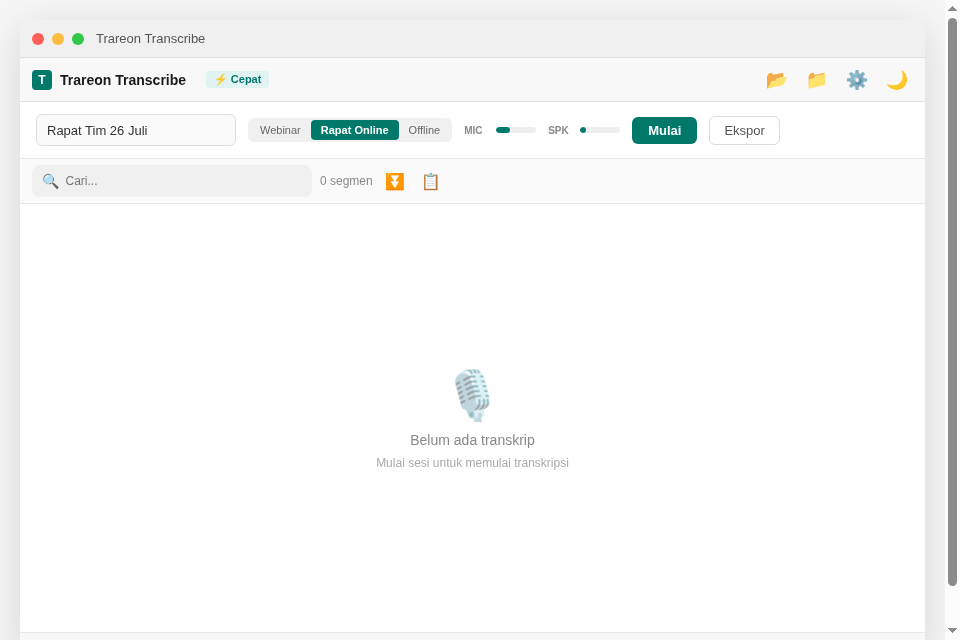
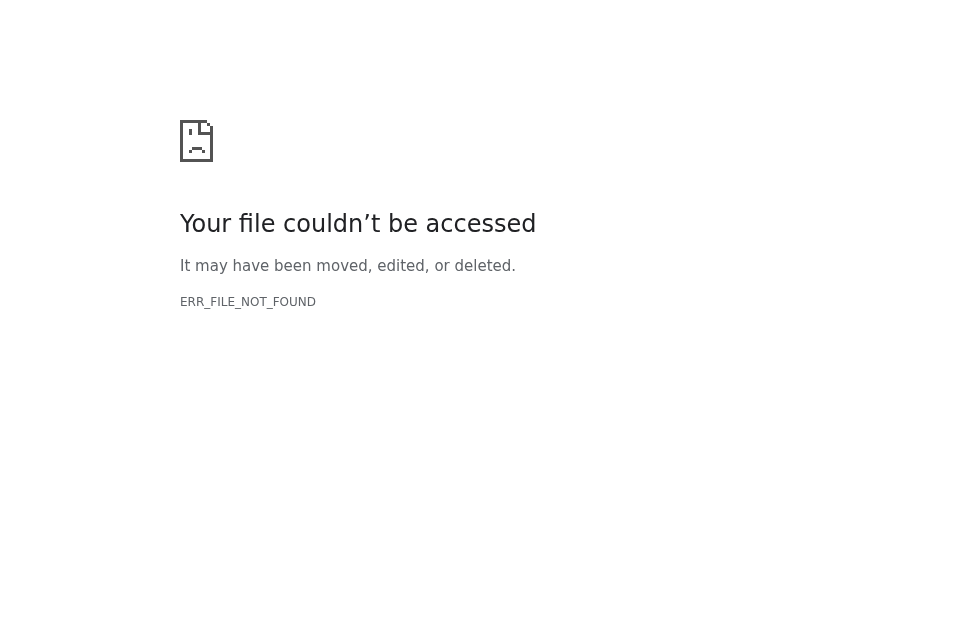
fix: build Linux dan portable binary
- Fix SingleActivator const error (Flutter 3.44 API change)
- Fix SessionMode enum — tambah webinar variant
- Fix ConsumerState -> ConsumerStatefulWidget di player screen
- Fix export_dialog import ekspor.dart -> export.dart
- Fix showEksporDialog dipanggil konsisten di semua screen
- Fix toggleMikrofon -> toggleMic (method name mismatch)
- Fix tambah import services.dart untuk LogicalKeyboardKey
- Regen screenshot dengan desain settings terbaru
- Build sukses: binary + libapp.so portable (85 library deps)

diff --git a/lib/screens/main_screen.dart b/lib/screens/main_screen.dart
@@ -1,5 +1,6 @@
 import 'package:file_picker/file_picker.dart';
 import 'package:flutter/material.dart';
+import 'package:flutter/services.dart';
 import 'package:flutter_riverpod/flutter_riverpod.dart';
 
 import '../services/global_hotkey_service.dart';
@@ -180,41 +181,41 @@ class _MainScreenState extends ConsumerState<MainScreen> {
 
     return CallbackShortcuts(
       bindings: {
-        const SingleActivator(LogicalKeyboardKey.keyR, meta: true): () =>
+        SingleActivator(LogicalKeyboardKey.keyR, meta: true): () =>
             _toggleStartBerhenti(context, ref),
-        const SingleActivator(LogicalKeyboardKey.keyR, control: true): () =>
+        SingleActivator(LogicalKeyboardKey.keyR, control: true): () =>
             _toggleStartBerhenti(context, ref),
-        const SingleActivator(LogicalKeyboardKey.keyP, meta: true): () {
+        SingleActivator(LogicalKeyboardKey.keyP, meta: true): () {
           if (isPaused) {
             notifier.resume();
           } else if (lifecycle == SessionLifecycle.recording) {
             notifier.pause();
           }
         },
-        const SingleActivator(LogicalKeyboardKey.keyP, control: true): () {
+        SingleActivator(LogicalKeyboardKey.keyP, control: true): () {
           if (isPaused) {
             notifier.resume();
           } else if (lifecycle == SessionLifecycle.recording) {
             notifier.pause();
           }
         },
-        const SingleActivator(LogicalKeyboardKey.keyL, meta: true): () =>
+        SingleActivator(LogicalKeyboardKey.keyL, meta: true): () =>
             Navigator.of(context).push(MaterialPageRoute(builder: (ctx) {
               final lp = ref.read(settingsProvider).libraryPath;
               return LibraryScreen(libraryPath: resolveTilde(lp));
             })),
-        const SingleActivator(LogicalKeyboardKey.keyL, control: true): () =>
+        SingleActivator(LogicalKeyboardKey.keyL, control: true): () =>
             Navigator.of(context).push(MaterialPageRoute(builder: (ctx) {
               final lp = ref.read(settingsProvider).libraryPath;
               return LibraryScreen(libraryPath: resolveTilde(lp));
             })),
-        const SingleActivator(LogicalKeyboardKey.comma, meta: true): () =>
+        SingleActivator(LogicalKeyboardKey.comma, meta: true): () =>
             Navigator.of(context).push(MaterialPageRoute(builder: (_) => const SettingsScreen())),
-        const SingleActivator(LogicalKeyboardKey.comma, control: true): () =>
+        SingleActivator(LogicalKeyboardKey.comma, control: true): () =>
             Navigator.of(context).push(MaterialPageRoute(builder: (_) => const SettingsScreen())),
-        const SingleActivator(LogicalKeyboardKey.slash, meta: true): () =>
+        SingleActivator(LogicalKeyboardKey.slash, meta: true): () =>
             setState(() => _showShortcuts = !_showShortcuts),
-        const SingleActivator(LogicalKeyboardKey.slash, control: true): () =>
+        SingleActivator(LogicalKeyboardKey.slash, control: true): () =>
             setState(() => _showShortcuts = !_showShortcuts),
       },
       child: Focus(
@@ -486,7 +487,7 @@ class _ControlBar extends StatelessWidget {
                     label: 'Mikrofon',
                     enabled: session.config.micEnabled,
                     accent: colors.primary,
-                    onChanged: (enabled) => notifier.toggleMikrofon(enabled),
+                    onChanged: (enabled) => notifier.toggleMic(enabled),
                   ),
                   const SizedBox(width: 8),
 

diff --git a/lib/widgets/export_dialog.dart b/lib/widgets/export_dialog.dart
@@ -2,7 +2,7 @@ import 'package:file_picker/file_picker.dart';
 import 'package:flutter/material.dart';
 
 import '../services/bridge_service.dart';
-import '../src/rust/ekspor.dart' as rust_ekspor;
+import '../src/rust/export.dart' as rust_ekspor;
 import '../state/models.dart';
 import '../theme/app_colors.dart';
 
@@ -129,17 +129,17 @@ Future<bool> showEksporDialog(
     );
   }
 
-  final formats = <rust_ekspor.EksporFormat>[
-    if (selected.contains('md')) rust_ekspor.EksporFormat.markdown,
-    if (selected.contains('txt')) rust_ekspor.EksporFormat.txt,
-    if (selected.contains('json')) rust_ekspor.EksporFormat.json,
-    if (selected.contains('srt')) rust_ekspor.EksporFormat.srt,
-    if (selected.contains('vtt')) rust_ekspor.EksporFormat.vtt,
-    if (selected.contains('html')) rust_ekspor.EksporFormat.html,
+  final formats = <rust_ekspor.ExportFormat>[
+    if (selected.contains('md')) rust_ekspor.ExportFormat.markdown,
+    if (selected.contains('txt')) rust_ekspor.ExportFormat.txt,
+    if (selected.contains('json')) rust_ekspor.ExportFormat.json,
+    if (selected.contains('srt')) rust_ekspor.ExportFormat.srt,
+    if (selected.contains('vtt')) rust_ekspor.ExportFormat.vtt,
+    if (selected.contains('html')) rust_ekspor.ExportFormat.html,
   ];
 
   try {
-    await bridge.eksporSession(
+    await bridge.exportSession(
       segments: session.segments,
       outputDir: outputDir,
       title: session.title,

diff --git a/lib/screens/transcript_player_screen.dart b/lib/screens/transcript_player_screen.dart
@@ -12,7 +12,7 @@ import '../theme/app_colors.dart';
 import '../widgets/export_dialog.dart';
 import '../widgets/transcript_view.dart';
 
-class TranscriptPlayerScreen extends StatefulWidget {
+class TranscriptPlayerScreen extends ConsumerStatefulWidget {
   final String title;
   final double durationSeconds;
   final List<TranscriptSegment> segments;
@@ -29,10 +29,10 @@ class TranscriptPlayerScreen extends StatefulWidget {
   });
 
   @override
-  State<TranscriptPlayerScreen> createState() => _TranscriptPlayerScreenState();
+  ConsumerState<TranscriptPlayerScreen> createState() => _TranscriptPlayerScreenState();
 }
 
-class _TranscriptPlayerScreenState extends State<TranscriptPlayerScreen> {
+class _TranscriptPlayerScreenState extends ConsumerState<TranscriptPlayerScreen> {
   double _positionSeconds = 0;
   double _speed = 1.0;
   bool _playing = false;
@@ -319,8 +319,8 @@ class _TranscriptPlayerScreenState extends State<TranscriptPlayerScreen> {
             ? '${Platform.environment['USERPROFILE']}\\Documents\\TrareonTranscribe'
             : '$home/Documents/TrareonTranscribe';
 
-    final bridge = context.read(rustBridgeProvider);
-    await showExportDialog(
+    final bridge = ref.read(rustBridgeProvider);
+    await showEksporDialog(
       context,
       summary,
       bridge: bridge,

diff --git a/lib/screens/library_screen.dart b/lib/screens/library_screen.dart
@@ -170,7 +170,7 @@ class _LibraryScreenState extends ConsumerState<LibraryScreen> {
   Future<void> _exportSession(SessionSummary session) async {
     final bridge = ref.read(rustBridgeProvider);
     final settings = ref.read(settingsProvider);
-    await showExportDialog(
+    await showEksporDialog(
       context,
       session,
       bridge: bridge,

diff --git a/lib/state/models.dart b/lib/state/models.dart
@@ -5,7 +5,7 @@ library;
 
 import 'dart:io';
 
-enum SessionMode { online, offline }
+enum SessionMode { webinar, online, offline }
 
 /// Resolves a leading `~` in [path] to the user's home directory.
 String resolveTilde(String path) {
